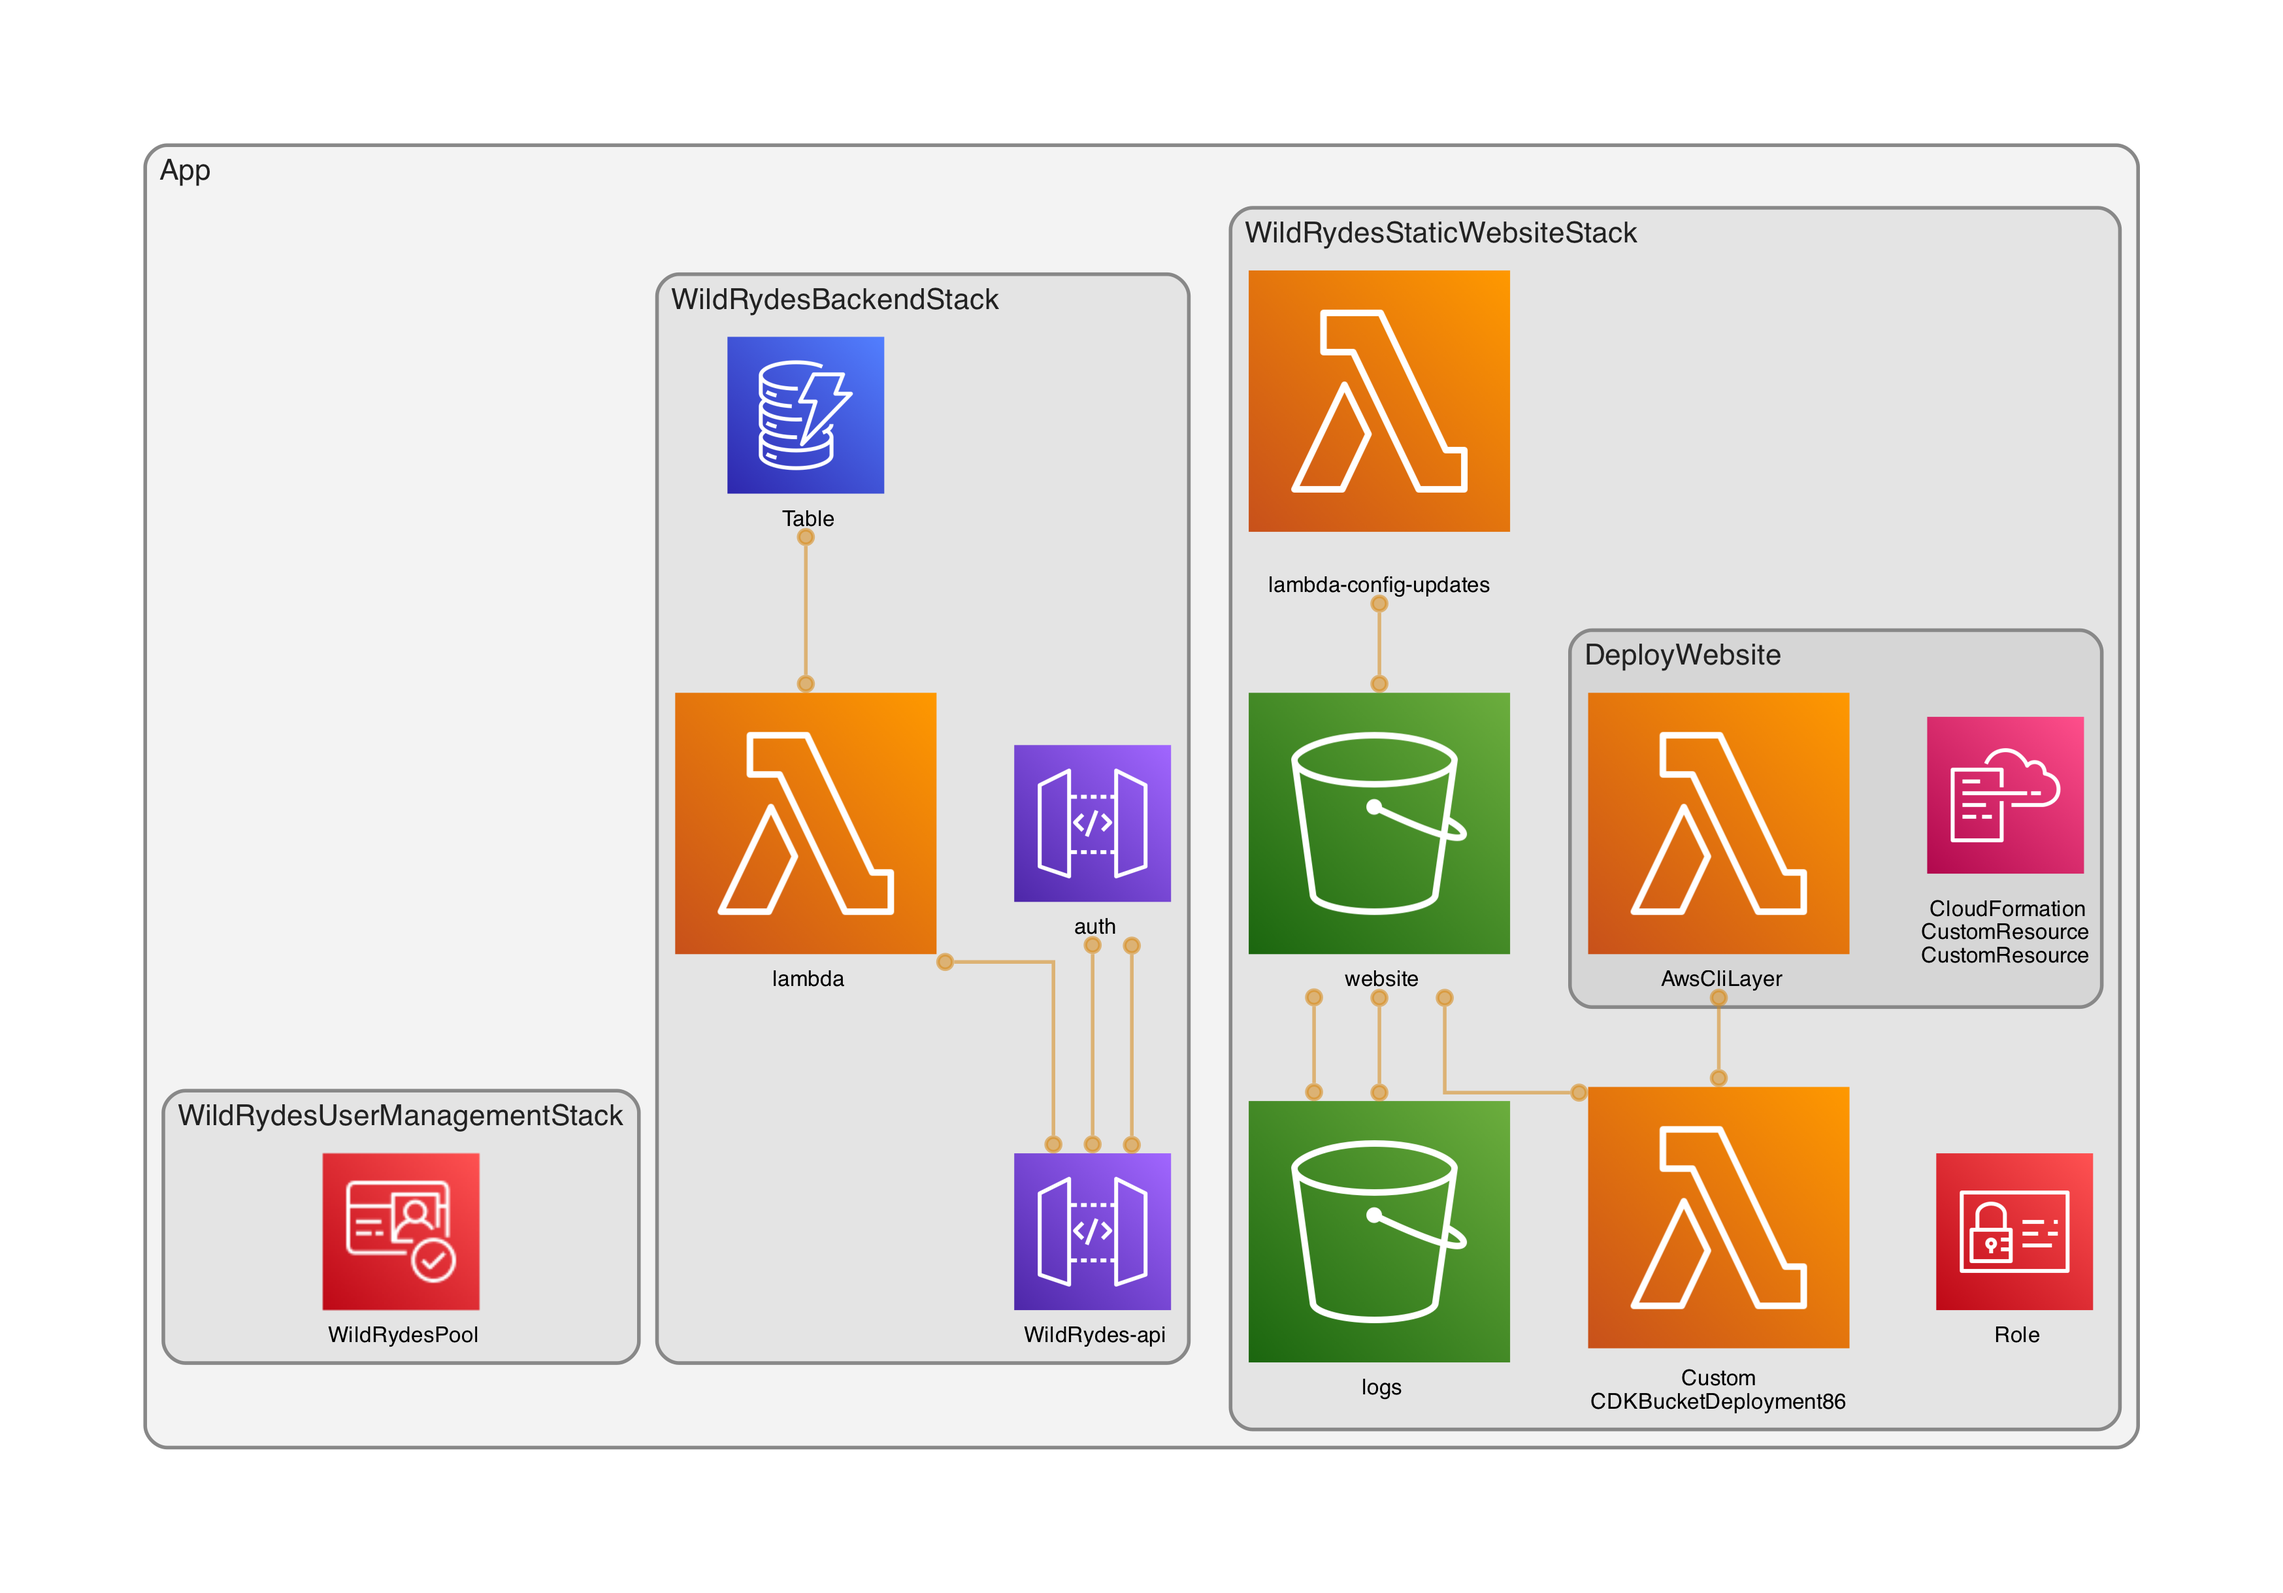
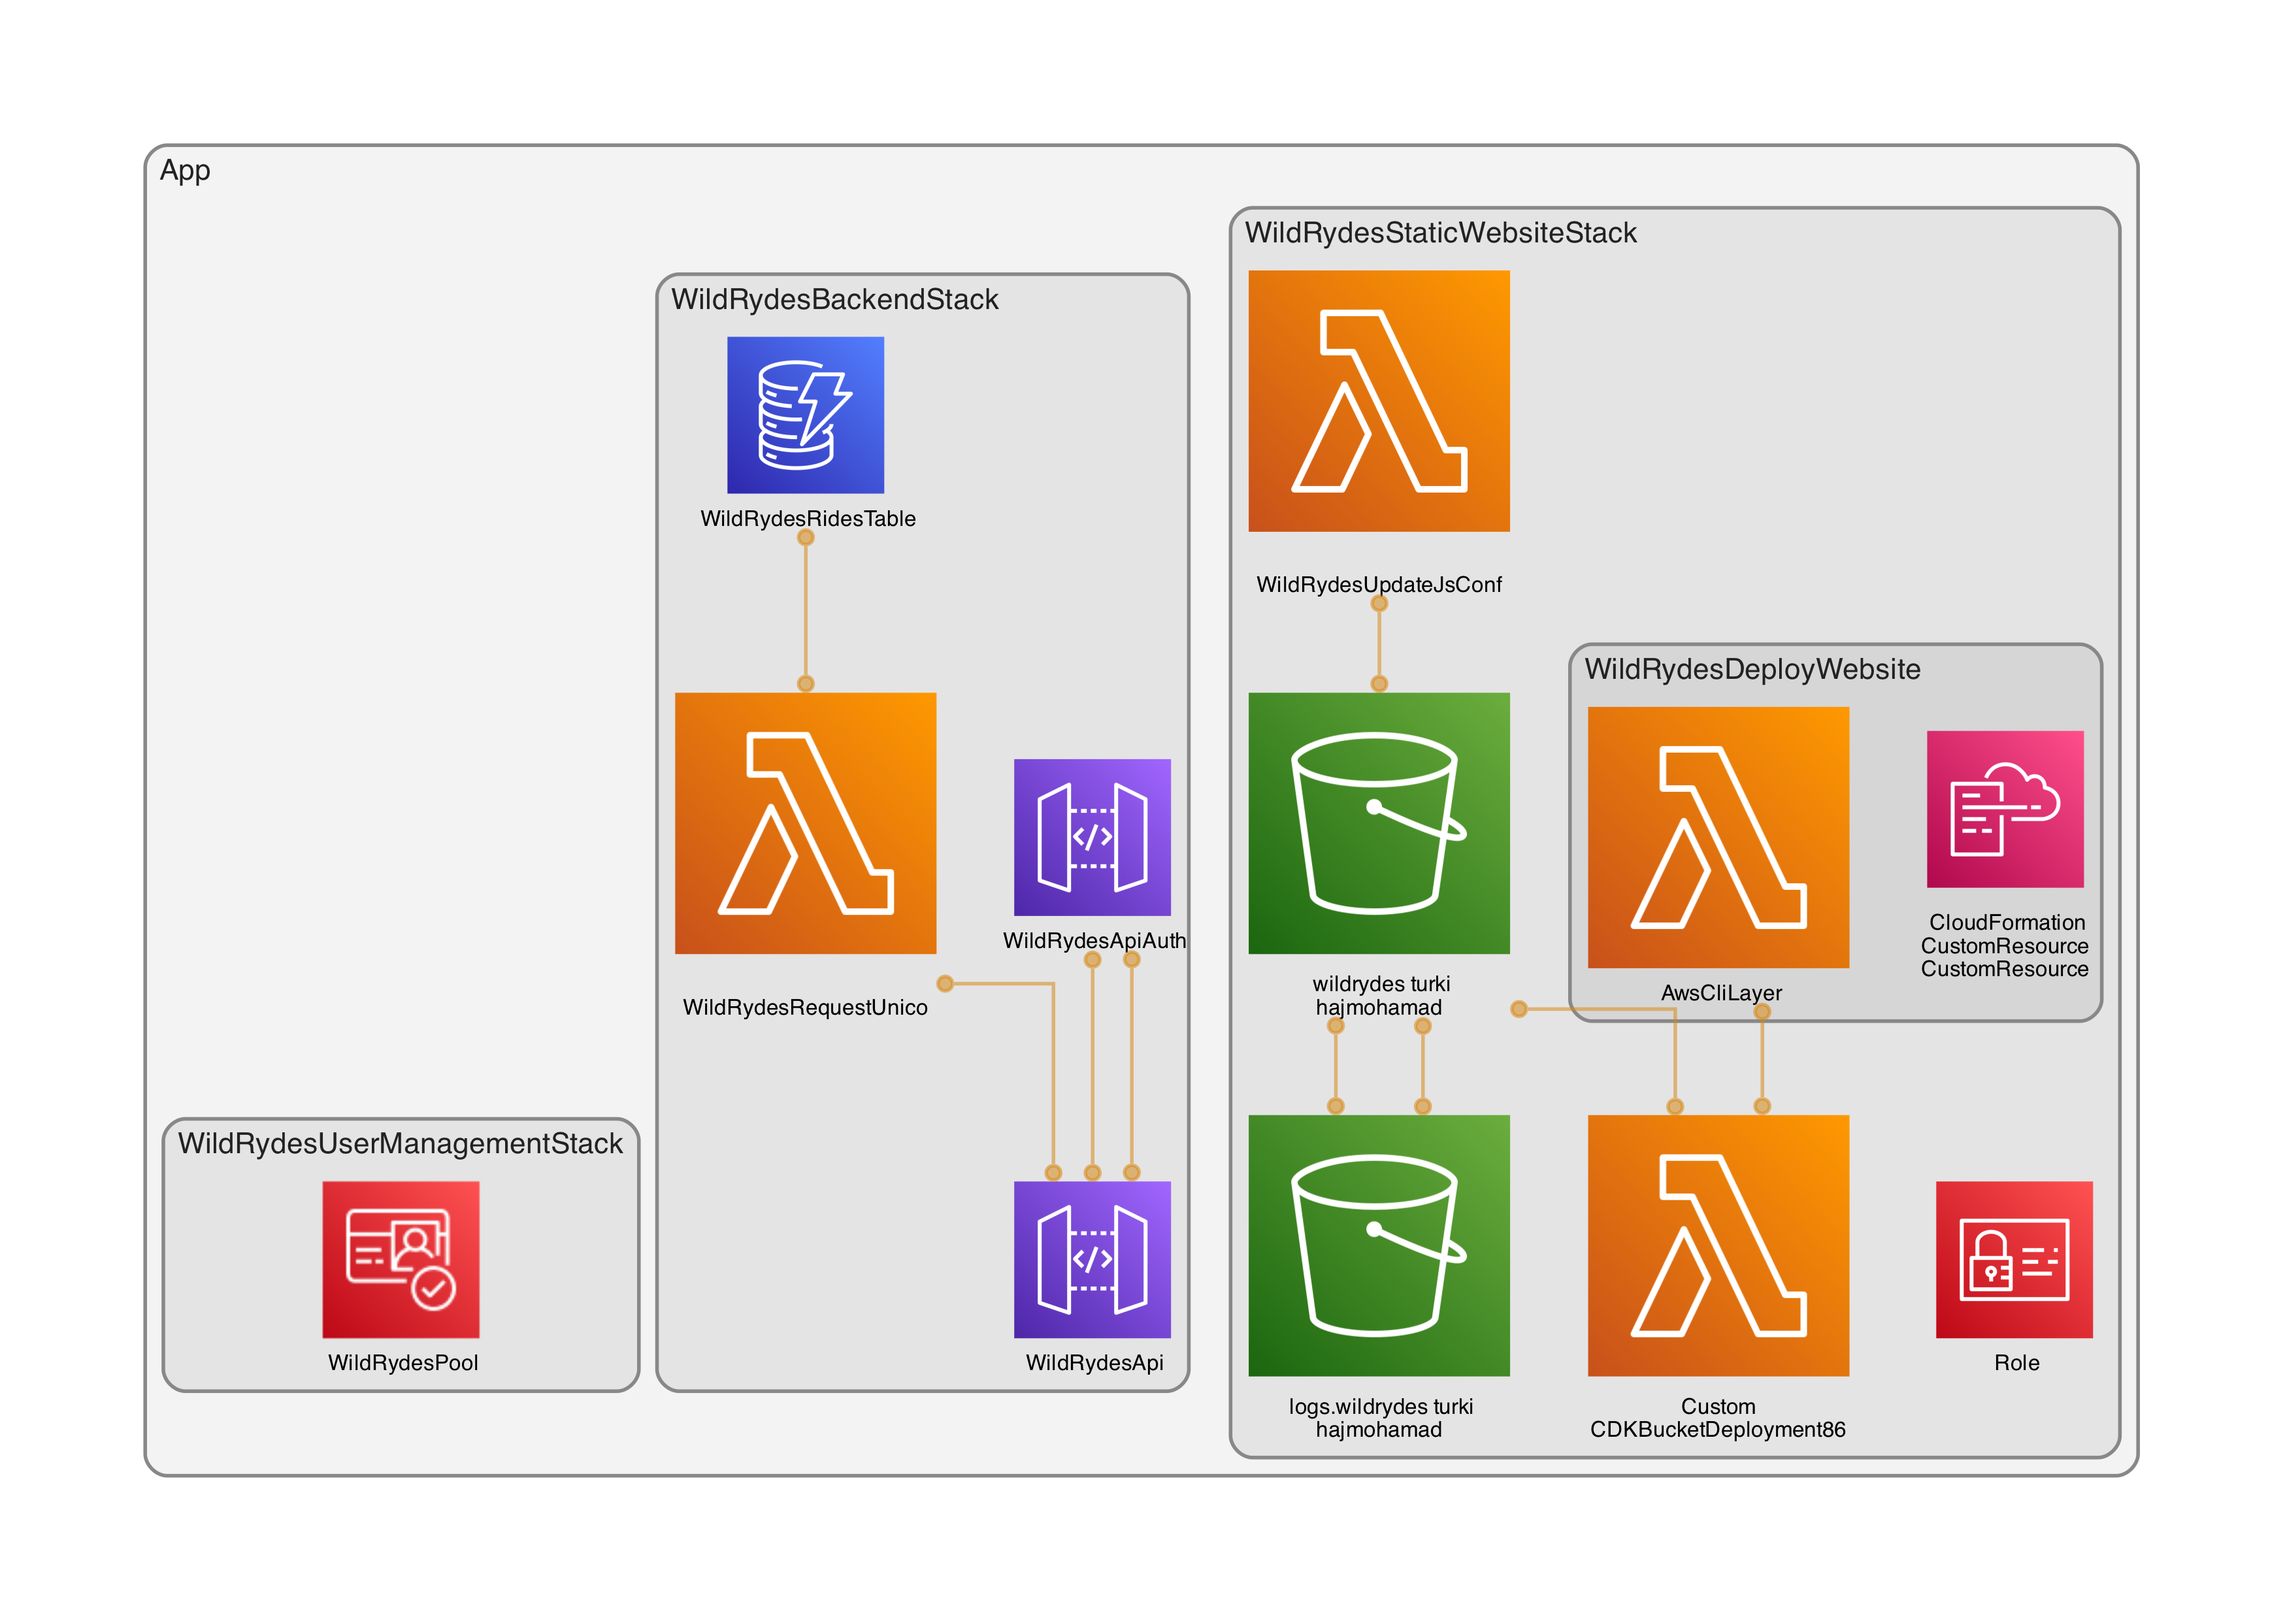
diagram generation

diff --git a/README.md b/README.md
@@ -20,3 +20,15 @@ The application architecture uses AWS Lambda, Amazon API Gateway, Amazon DynamoD
 
 - to run test `npm test`
 - to regenerate a cdk template `npm test -- -u`
+
+## Generate aws diagram using cdk-dia
+
+- https://github.com/pistazie/cdk-dia
+- make sure graphviz is installed `dot -V` if not `brew install graphviz`
+- `npm install cdk-dia`
+
+- to generate the diagram:
+  - `cdk synth`
+  - `npx cdk-dia`
+
+![Alt text](infra/diagram.png)
